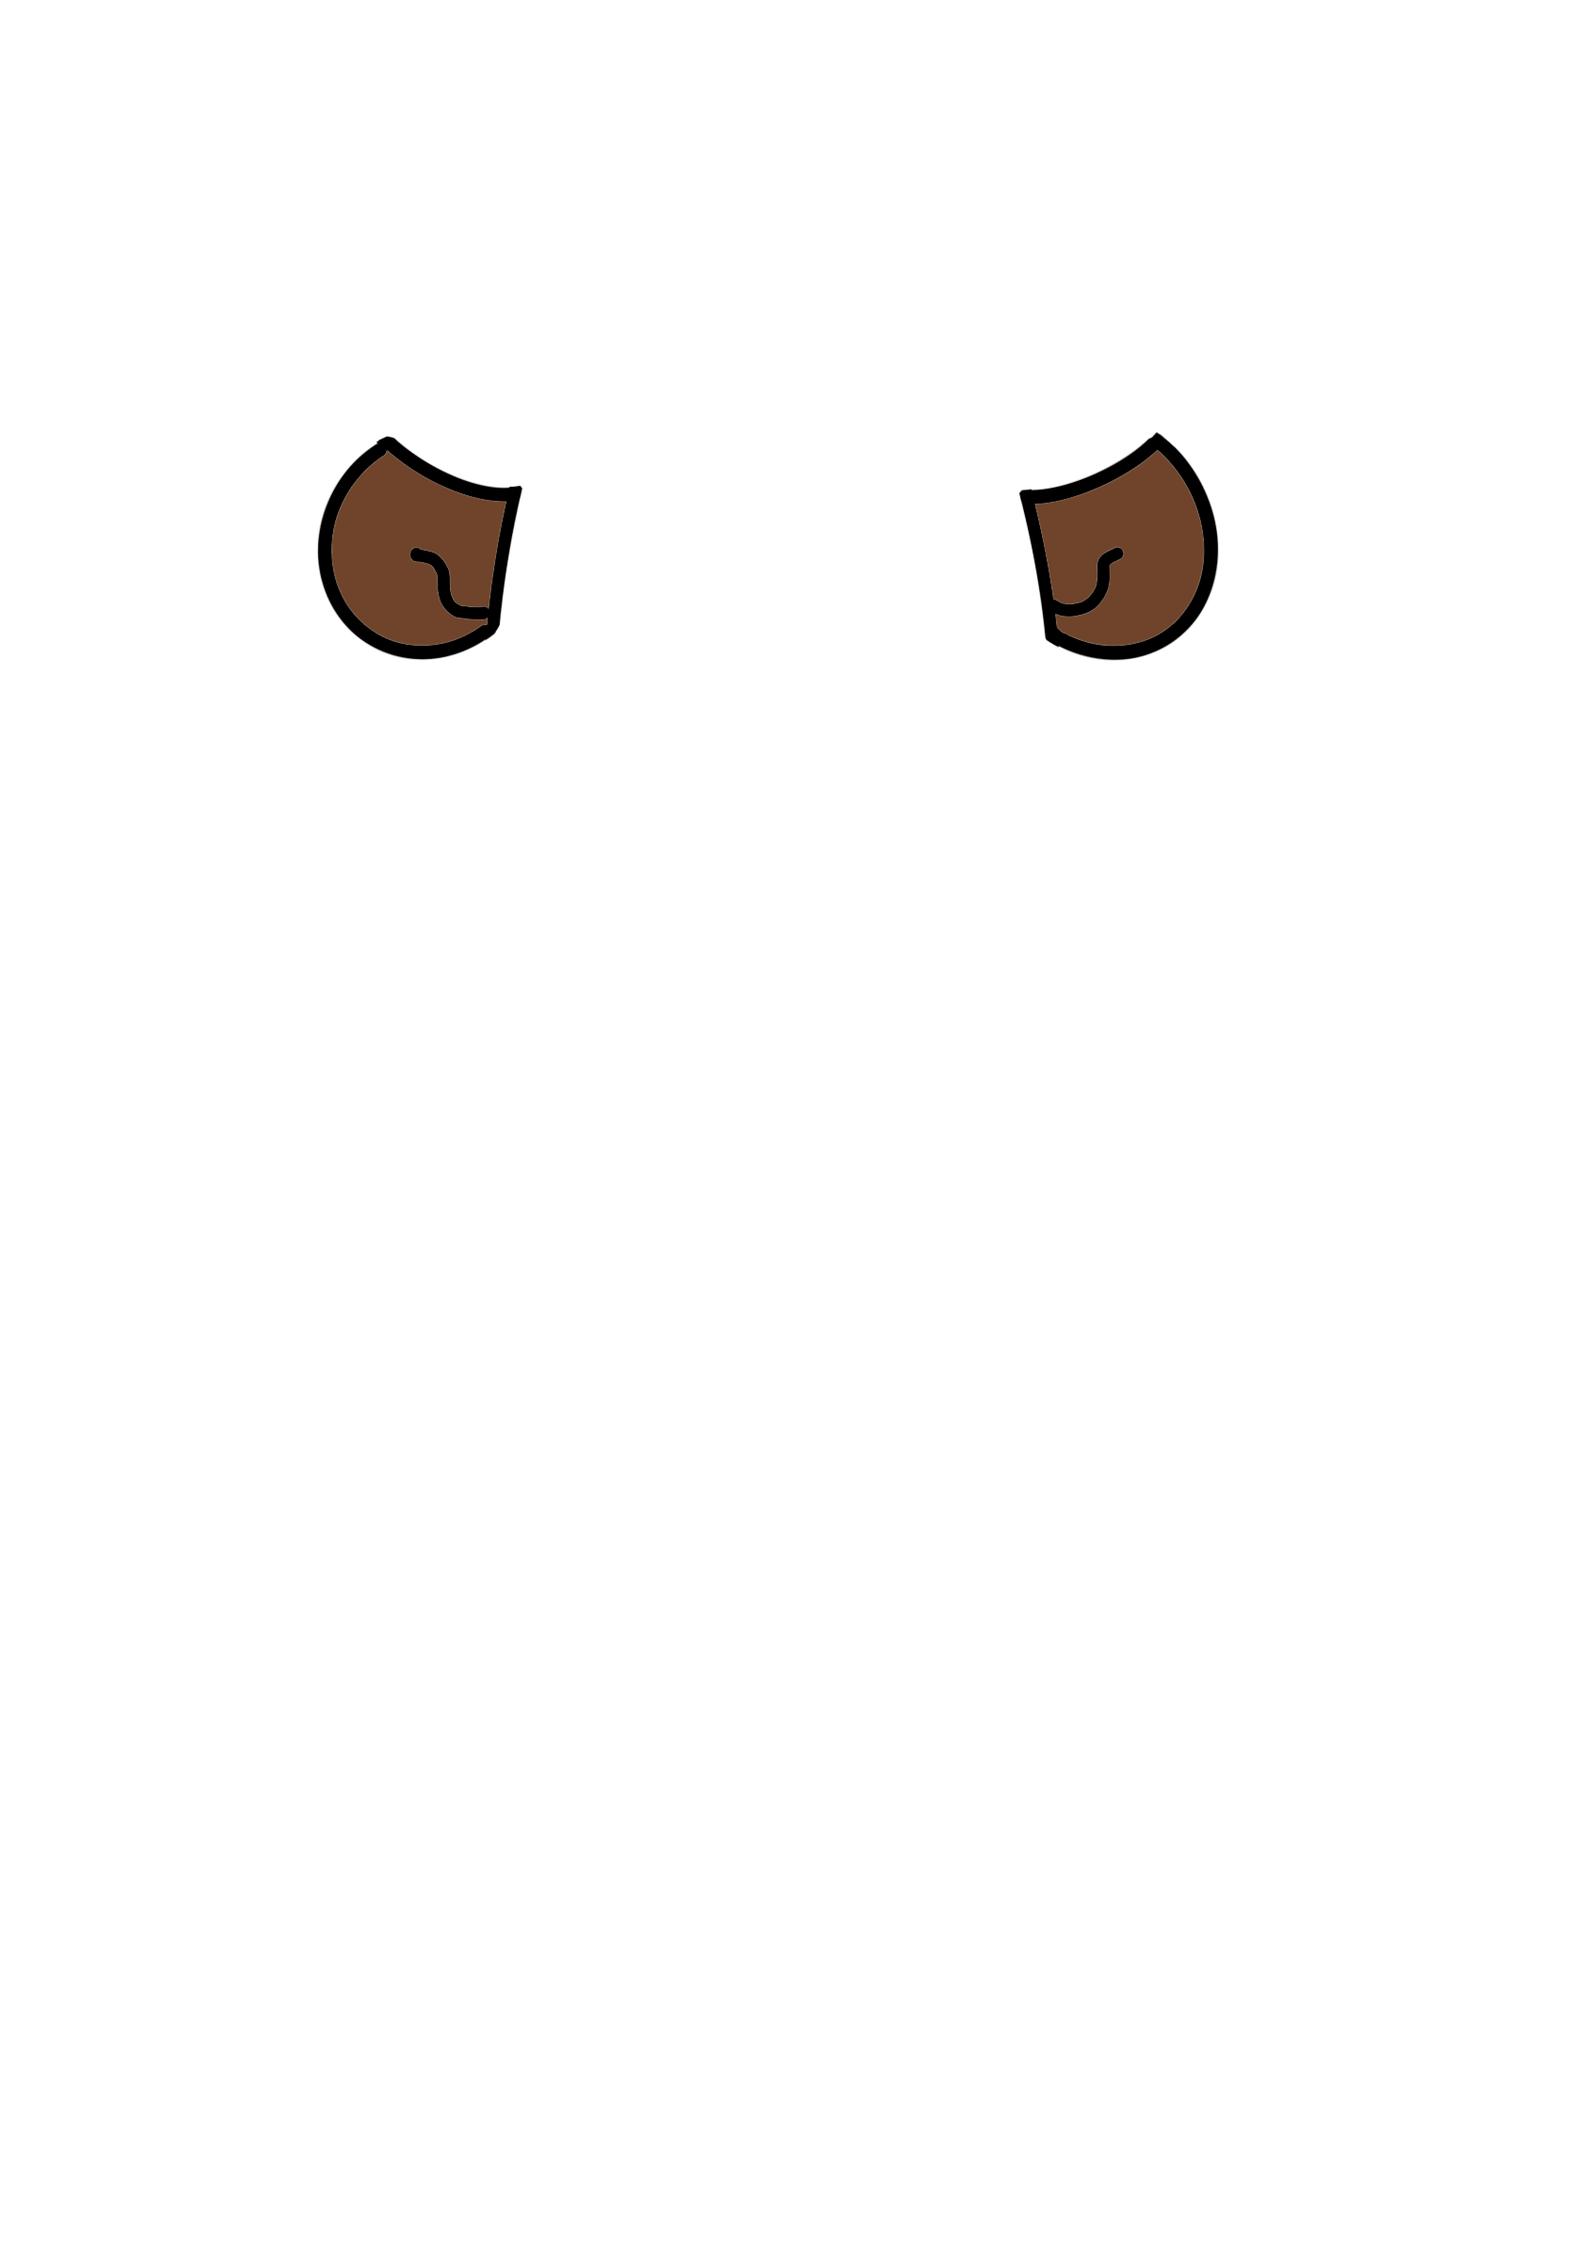
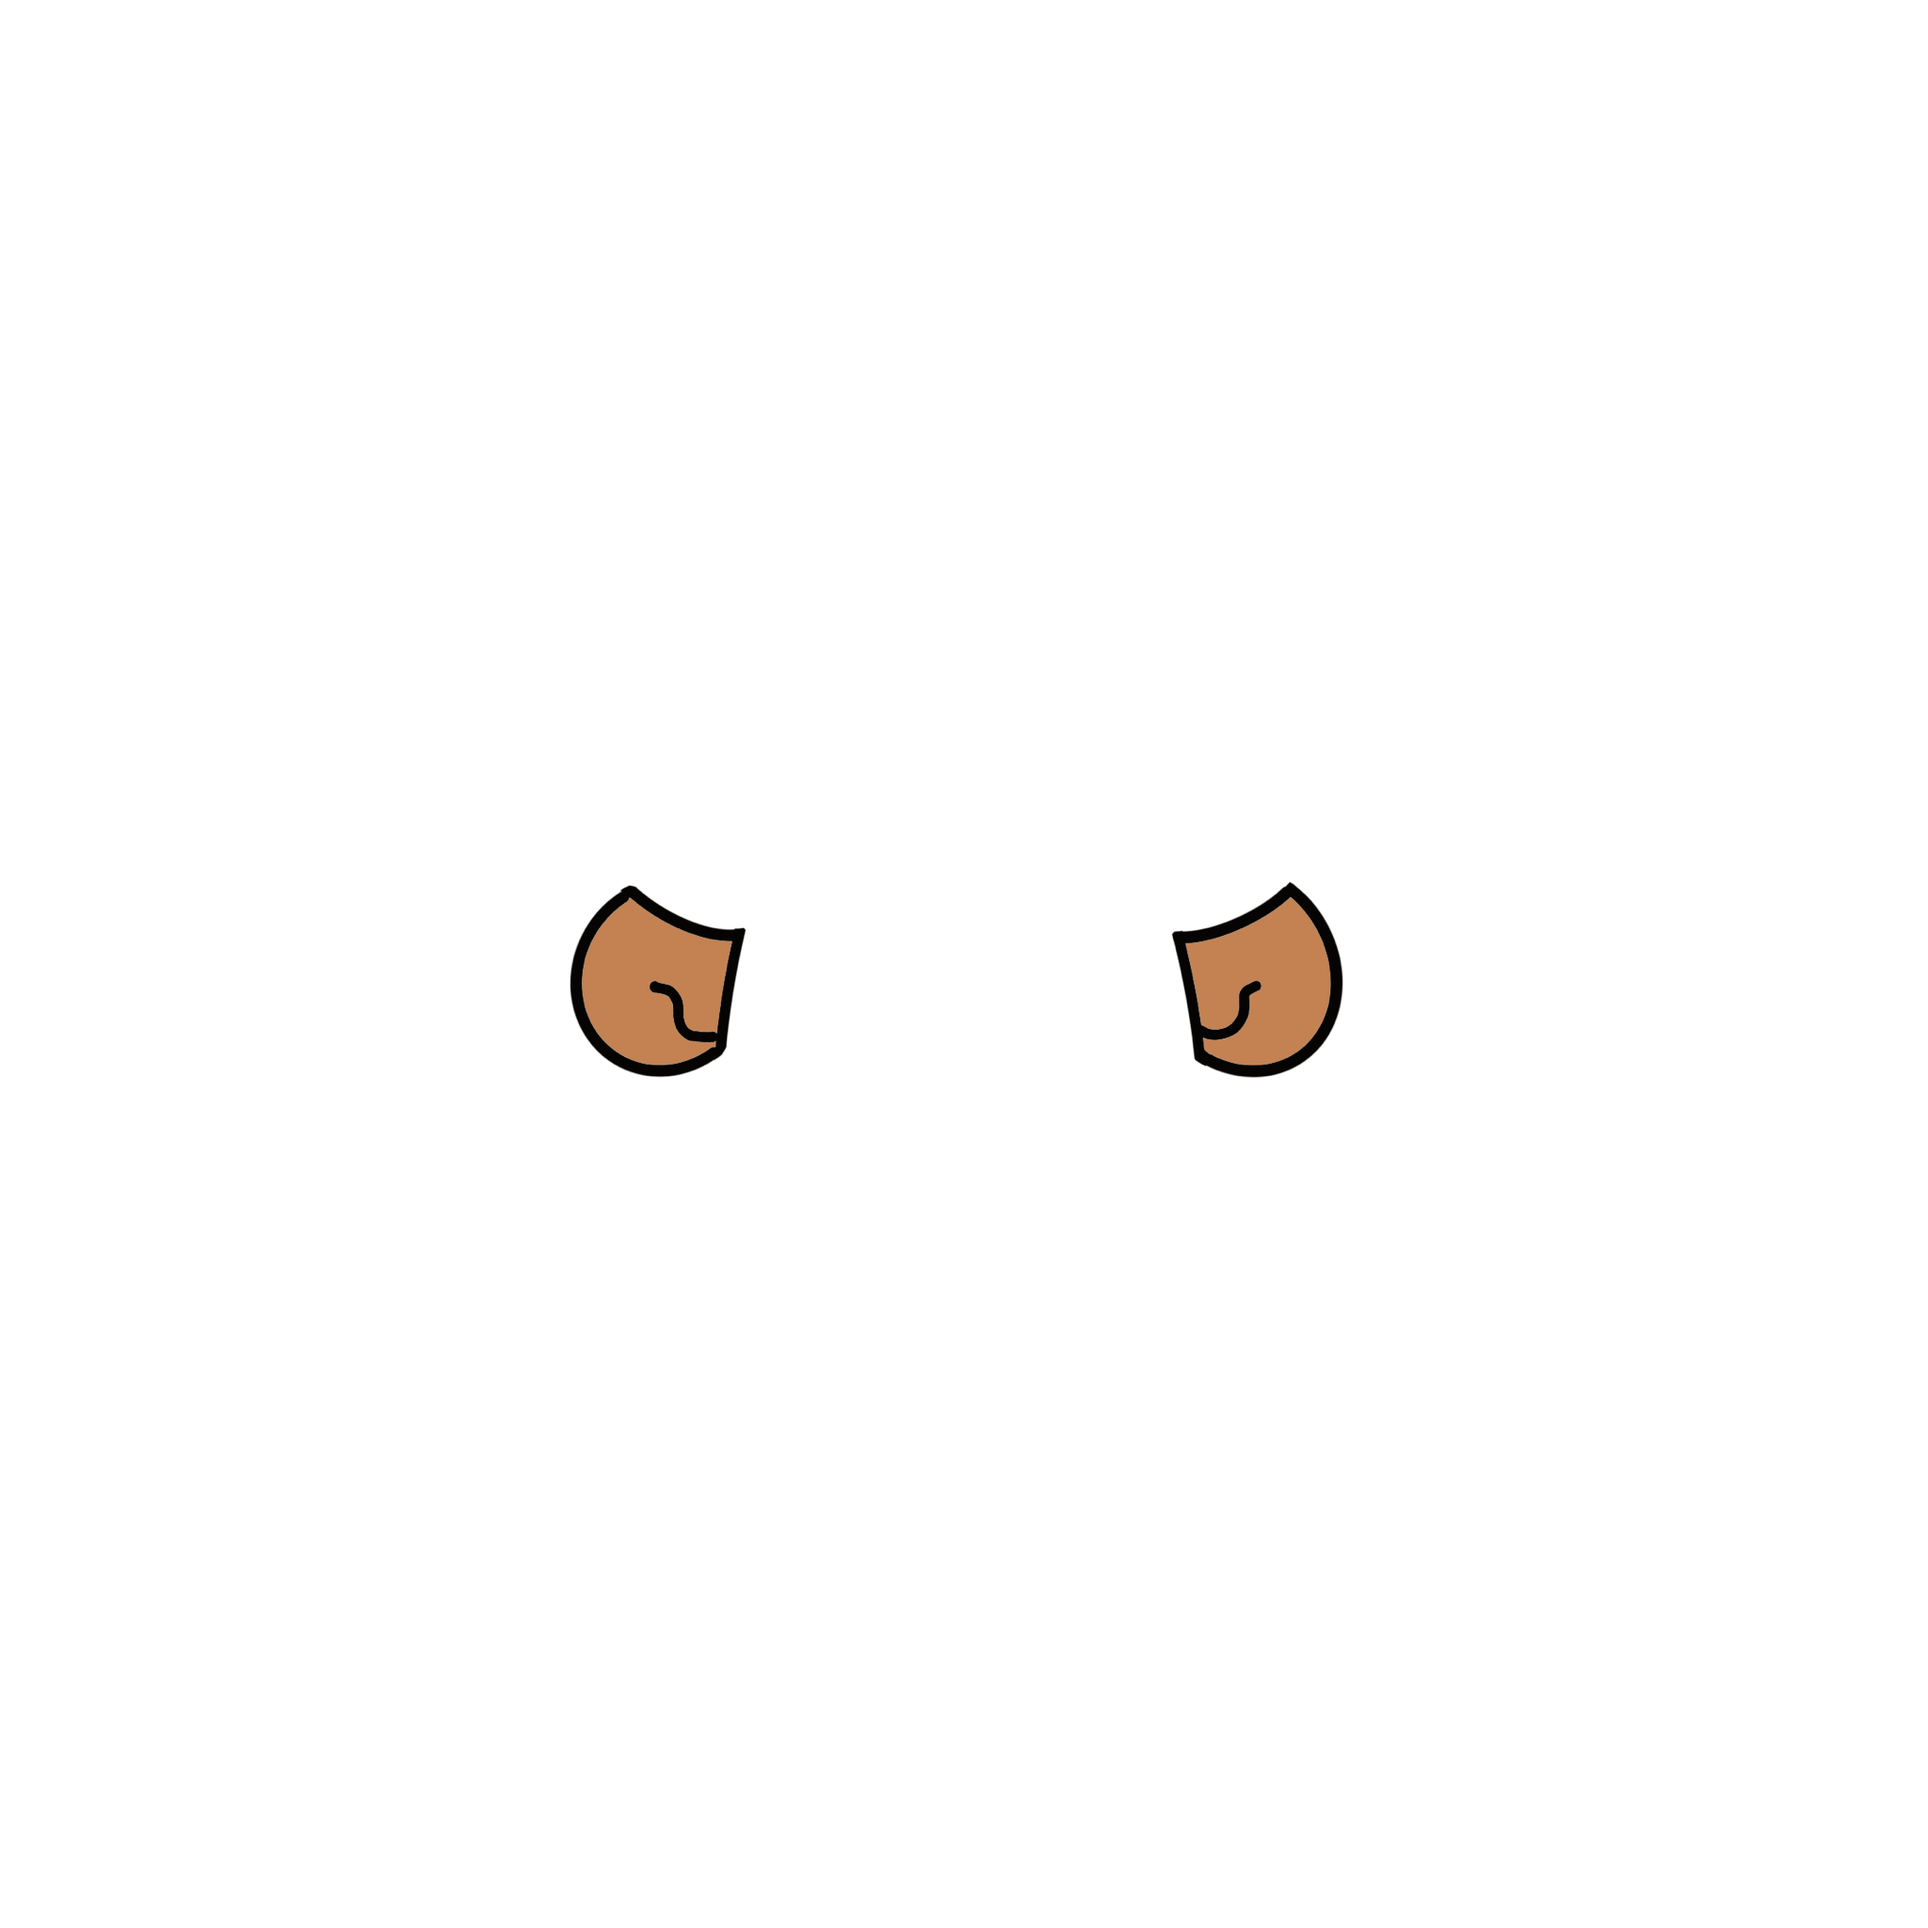
fixed body

diff --git a/frontend/src/components/BodySelector.jsx b/frontend/src/components/BodySelector.jsx
@@ -88,9 +88,6 @@ const BODIES = [
   },
 ]
 
-// REPLACE: change this color to match your brand / character palette
-const BODY_COLOR = '#E87461'
-
 /*
   OUTFIT ITEMS
   Each item has a category, id, label, and an image path.
@@ -106,130 +103,82 @@ const BODY_COLOR = '#E87461'
 */
 
 const OUTFIT_CATEGORIES = [
-  { id: 'hats', label: 'Hats' },
   { id: 'tops', label: 'Tops' },
-  { id: 'bottoms', label: 'Bottoms' },
   { id: 'shoes', label: 'Shoes' },
-  { id: 'accessories', label: 'Accessories' },
+  { id: 'hands', label: 'Hands' },
 ]
 
 /*
-  PLACEHOLDER OUTFIT DATA
+  OUTFIT DATA
   Each item needs:
     - id: unique string
     - label: display name
-    - image: path to transparent PNG/SVG in /public/outfits/
-    - color: fallback color for the placeholder rectangle
+    - image: path to transparent PNG in /public/outfits/
+    - color: fallback color shown while image loads
 
-  When you have real images, just update the `image` field.
-  The component renders the image if it exists, otherwise
-  shows a colored placeholder block.
+  To add more categories later (hats, bottoms, accessories),
+  add PNGs to /public/outfits/<category>/ and add entries here.
 */
 const OUTFIT_ITEMS = {
-  hats: [
-    { id: 'beanie', label: 'Beanie', image: '/outfits/hats/beanie.png', color: '#5B8CFF' },
-    { id: 'cap', label: 'Cap', image: '/outfits/hats/cap.png', color: '#FF6B6B' },
-    { id: 'headband', label: 'Headband', image: '/outfits/hats/headband.png', color: '#4ECDC4' },
-    { id: 'beret', label: 'Beret', image: '/outfits/hats/beret.png', color: '#F5A623' },
-  ],
   tops: [
-    { id: 'tshirt', label: 'T-Shirt', image: '/outfits/tops/tshirt.png', color: '#5B8CFF' },
-    { id: 'hoodie', label: 'Hoodie', image: '/outfits/tops/hoodie.png', color: '#8B5CF6' },
-    { id: 'jacket', label: 'Jacket', image: '/outfits/tops/jacket.png', color: '#2D2D2D' },
-    { id: 'tank', label: 'Tank Top', image: '/outfits/tops/tank.png', color: '#FF6B6B' },
-  ],
-  bottoms: [
-    { id: 'jeans', label: 'Jeans', image: '/outfits/bottoms/jeans.png', color: '#3B5998' },
-    { id: 'shorts', label: 'Shorts', image: '/outfits/bottoms/shorts.png', color: '#8B6F47' },
-    { id: 'skirt', label: 'Skirt', image: '/outfits/bottoms/skirt.png', color: '#E87461' },
-    { id: 'sweats', label: 'Sweatpants', image: '/outfits/bottoms/sweats.png', color: '#777777' },
+    { id: 'blue_top', label: 'Blue Top', image: '/outfits/tops/blue_top.PNG', color: '#5B8CFF' },
+    { id: 'pink_top', label: 'Pink Top', image: '/outfits/tops/pink_top.PNG', color: '#FF69B4' },
+    { id: 'yellow_top', label: 'Yellow Top', image: '/outfits/tops/yellow_top.PNG', color: '#F5A623' },
   ],
   shoes: [
-    { id: 'sneakers', label: 'Sneakers', image: '/outfits/shoes/sneakers.png', color: '#FFFFFF' },
-    { id: 'boots', label: 'Boots', image: '/outfits/shoes/boots.png', color: '#5C3A1E' },
-    { id: 'sandals', label: 'Sandals', image: '/outfits/shoes/sandals.png', color: '#D4A574' },
+    { id: 'green_shoes', label: 'Green Shoes', image: '/outfits/shoes/green_shoes.PNG', color: '#66BB6A' },
+    { id: 'purple_shoes', label: 'Purple Shoes', image: '/outfits/shoes/purple_shoes.PNG', color: '#AB47BC' },
+    { id: 'yellow_shoes', label: 'Yellow Shoes', image: '/outfits/shoes/yellow_shoes.PNG', color: '#F5A623' },
   ],
-  accessories: [
-    { id: 'glasses', label: 'Glasses', image: '/outfits/accessories/glasses.png', color: '#2D2D2D' },
-    { id: 'necklace', label: 'Necklace', image: '/outfits/accessories/necklace.png', color: '#FFD700' },
-    { id: 'scarf', label: 'Scarf', image: '/outfits/accessories/scarf.png', color: '#E87461' },
-    { id: 'watch', label: 'Watch', image: '/outfits/accessories/watch.png', color: '#C0C0C0' },
+  hands: [
+    { id: 'black_skin', label: 'Dark', image: '/outfits/hands/black_skin.png', color: '#3B2219', square: true },
+    { id: 'brown_skin', label: 'Brown', image: '/outfits/hands/brown_skin.png', color: '#8D5524', square: true },
+    { id: 'white_skin', label: 'Light', image: '/outfits/hands/white_skin.png', color: '#FFDBAC', square: true },
   ],
 }
 
 /*
-  Layer order — controls which items render on top.
-  Items later in the array render on top of earlier ones.
+  The outfit PNGs are full-body-sized illustrations drawn to match
+  the body silhouettes. Each layer covers the full body container
+  and relies on the PNG transparency to only show the relevant part.
+  REPLACE: if your images only cover part of the body, switch back
+  to per-category position offsets.
 */
-const LAYER_ORDER = ['bottoms', 'shoes', 'tops', 'accessories', 'hats']
+function OutfitImage({ item }) {
+  if (!item) return null
 
-/*
-  Position offsets for each category layer on the body preview.
-  These align the outfit images with the placeholder body SVGs.
-  REPLACE: adjust these when you have real illustrations to get
-  pixel-perfect alignment.
-*/
-const LAYER_POSITIONS = {
-  hats:        { top: -10, left: 22, width: 56, height: 40 },
-  tops:        { top: 55,  left: 10, width: 80, height: 55 },
-  bottoms:     { top: 100, left: 18, width: 64, height: 55 },
-  shoes:       { top: 148, left: 18, width: 64, height: 30 },
-  accessories: { top: 40,  left: 20, width: 60, height: 40 },
-}
-
-function OutfitLayer({ item, category }) {
-  const pos = LAYER_POSITIONS[category]
-  if (!item || !pos) return null
-
-  return (
-    <div
-      className="outfit-layer"
-      style={{
+  /*
+    Square hand PNGs (2048x2048) have hands at ~35% from top.
+    Portrait PNGs (1668x2388) have hands at ~60% from top.
+    For square images, we scale them up and shift down so the hands
+    align with the same position as the portrait ones.
+  */
+  const style = item.square
+    ? {
         position: 'absolute',
-        top: pos.top,
-        left: pos.left,
-        width: pos.width,
-        height: pos.height,
+        top: '20%',
+        left: '-18%',
+        width: '138%',
+        height: 'auto',
+        aspectRatio: '1 / 1',
+        objectFit: 'contain',
         pointerEvents: 'none',
-      }}
-    >
-      {/* Try to load the real image; show colored placeholder on error */}
-      <img
-        src={item.image}
-        alt={item.label}
-        style={{ width: '100%', height: '100%', objectFit: 'contain' }}
-        onError={(e) => {
-          // Hide broken image, show placeholder
-          e.target.style.display = 'none'
-          e.target.nextSibling.style.display = 'flex'
-        }}
-      />
-      <div
-        className="outfit-placeholder"
-        style={{
-          display: 'none',
-          width: '100%',
-          height: '100%',
-          background: item.color,
-          borderRadius: 6,
-          opacity: 0.8,
-          alignItems: 'center',
-          justifyContent: 'center',
-          fontSize: 10,
-          color: '#fff',
-          fontWeight: 600,
-          textAlign: 'center',
-        }}
-      >
-        {item.label}
-      </div>
-    </div>
-  )
+      }
+    : {
+        position: 'absolute',
+        top: 0,
+        left: 0,
+        width: '100%',
+        height: '100%',
+        objectFit: 'contain',
+        pointerEvents: 'none',
+      }
+
+  return <img src={item.image} alt={item.label} style={style} />
 }
 
 export default function BodySelector({ headImage, onHeadImageChange, outfit, onOutfitChange }) {
-  const [selectedBody, setSelectedBody] = useState('casual')
-  const [activeCategory, setActiveCategory] = useState('hats')
+  const [activeCategory, setActiveCategory] = useState('tops')
   const [cameraOpen, setCameraOpen] = useState(false)
   const fileInputRef = useRef()
   const videoRef = useRef()
@@ -237,11 +186,9 @@ export default function BodySelector({ headImage, onHeadImageChange, outfit, onO
 
   // If parent doesn't manage outfit state, manage it locally
   const [localOutfit, setLocalOutfit] = useState({
-    hats: null,
     tops: null,
-    bottoms: null,
     shoes: null,
-    accessories: null,
+    hands: null,
   })
 
   const currentOutfit = outfit || localOutfit
@@ -353,13 +300,13 @@ export default function BodySelector({ headImage, onHeadImageChange, outfit, onO
     }))
   }
 
-  const activeBody = BODIES.find((b) => b.id === selectedBody)
   const categoryItems = OUTFIT_ITEMS[activeCategory] || []
 
   return (
     <>
-      {/* Main preview: head + body + outfit layers */}
+      {/* Character preview: head + body (tops/hands) + shoes */}
       <div className="body-selector__preview">
+        {/* Head circle — positioned to overlap the top of the body area */}
         <div className="body-selector__head">
           {headImage ? (
             <img src={headImage} alt="Your profile" />
@@ -367,29 +314,25 @@ export default function BodySelector({ headImage, onHeadImageChange, outfit, onO
             '?'
           )}
         </div>
-        <div className="body-selector__body-svg">
-          {activeBody?.svg(BODY_COLOR)}
-          {/* Outfit layers rendered in order */}
-          {LAYER_ORDER.map((cat) => (
-            <OutfitLayer key={cat} item={currentOutfit[cat]} category={cat} />
-          ))}
+
+        {/* Body area — tops and hands share the same canvas (1668x2388) */}
+        <div className="body-selector__body-area">
+          <OutfitImage item={currentOutfit.hands} />
+          <OutfitImage item={currentOutfit.tops} />
         </div>
+
+        {/* Shoes — separate square image below the body */}
+        {currentOutfit.shoes && (
+          <div className="body-selector__shoes">
+            <img
+              src={currentOutfit.shoes.image}
+              alt={currentOutfit.shoes.label}
+              style={{ width: '100%', height: '100%', objectFit: 'contain' }}
+            />
+          </div>
+        )}
       </div>
 
-      {/* Body choices */}
-      <div className="body-options">
-        {BODIES.map((body) => (
-          <button
-            key={body.id}
-            className={`body-option-btn ${selectedBody === body.id ? 'selected' : ''}`}
-            onClick={() => setSelectedBody(body.id)}
-            title={body.label}
-            aria-label={`Select ${body.label} body`}
-          >
-            {body.svg(selectedBody === body.id ? BODY_COLOR : '#CCCCCC')}
-          </button>
-        ))}
-      </div>
 
       {/* Camera modal */}
       {cameraOpen && (

diff --git a/frontend/src/index.css b/frontend/src/index.css
@@ -431,17 +431,15 @@ input, select, textarea { font-family: inherit; font-size: inherit; }
    ============================================ */
 
 .body-selector__preview {
+  display: flex;
+  flex-direction: column;
+  align-items: center;
   position: relative;
-  width: 180px;
-  height: 280px;
+  width: 280px;
 }
 .body-selector__head {
-  position: absolute;
-  top: 0;
-  left: 50%;
-  transform: translateX(-50%);
-  width: 80px;
-  height: 80px;
+  width: 100px;
+  height: 100px;
   border-radius: 50%;
   background: var(--color-primary-light);
   border: 3px solid var(--color-primary);
@@ -450,22 +448,28 @@ input, select, textarea { font-family: inherit; font-size: inherit; }
   justify-content: center;
   overflow: hidden;
   z-index: 2;
-  font-size: 32px;
+  font-size: 40px;
   color: var(--color-primary);
   font-weight: 700;
+  margin-bottom: -30px;
 }
 .body-selector__head img {
   width: 100%;
   height: 100%;
   object-fit: cover;
 }
-.body-selector__body-svg {
-  position: absolute;
-  top: 60px;
-  left: 50%;
-  transform: translateX(-50%);
-  width: 160px;
-  height: 220px;
+/* Body area holds the tops + hands PNGs (same 1668x2388 canvas) */
+.body-selector__body-area {
+  position: relative;
+  width: 260px;
+  /* Aspect ratio matches the PNG canvas: 1668/2388 ≈ 0.698 */
+  aspect-ratio: 1668 / 2388;
+}
+/* Shoes sit directly below the body */
+.body-selector__shoes {
+  width: 250px;
+  height: 250px;
+  margin-top: -195px;
 }
 
 .body-options {
